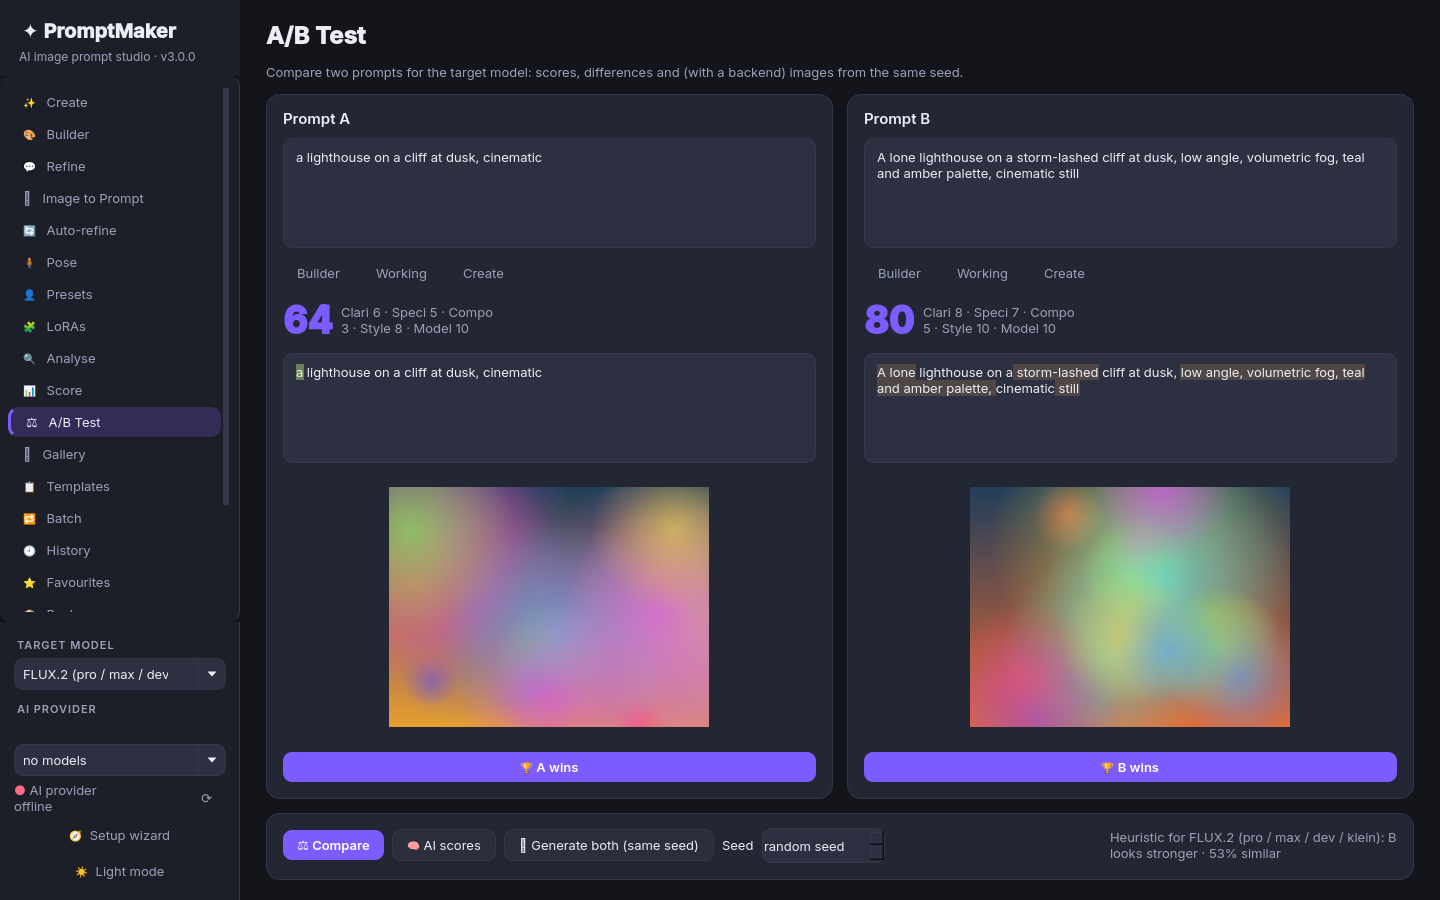
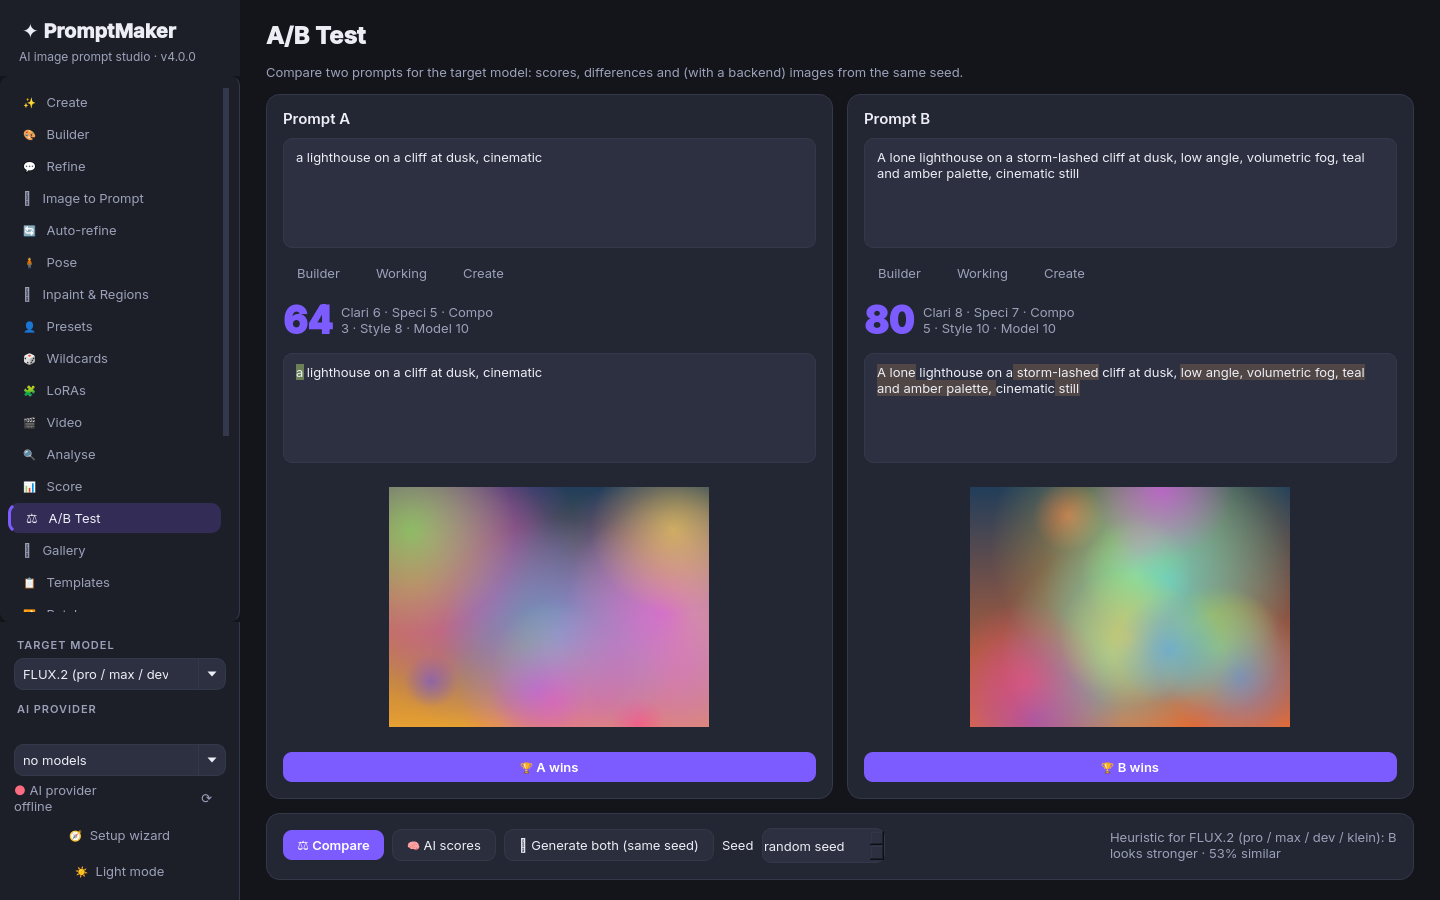
Release prep v4.0.0: version bump, changelog, README (features, inpaint/regions, wildcards, sync, troubleshooting), screenshots

Changed region(s): [[0.0, 0.4356, 0.1562, 0.6533], [0.0, 0.3111, 0.0938, 0.4044]]

diff --git a/tools/screenshots.py b/tools/screenshots.py
@@ -144,6 +144,43 @@ def v3_shots():
     w.pose_cn_model.setCurrentText("xinsir_openpose_sdxl"); g("pose")
 
 
+def v4_shots():
+    os.environ["PROMPTMAKER_NO_DIALOGS"] = "1"
+    w.profile_combo.setCurrentIndex(w.profile_combo.findData("illustrious"))
+    # wildcards
+    lib = w.wc_lib
+    lib.save("hair", ["silver hair", "pink twintails", "short black hair", "long blonde hair", "{light|dark} blue hair"])
+    lib.save("outfit", ["school uniform", "black kimono", "hoodie and jeans", "witch hat and cloak", "sailor dress"])
+    lib.save("places/outdoor", ["cherry blossom park", "rainy neon street", "seaside cliff at dusk", "snowy shrine"])
+    lib.save("places/indoor", ["cosy library", "train carriage", "cafe by the window"])
+    w.go("Wildcards"); w.wc_reload(); w.wc_prompt.setPlainText("1girl, __hair__, __outfit__, {smiling|serious|surprised}, {2::__places/outdoor__|__places/indoor__}")
+    w.wc_seed.setValue(2026); w.wc_n.setValue(8); w.wc_batch(); w.wc_list.setCurrentRow(0)
+    w.wc_desc.setText("fantasy locations"); g("wildcards")
+    # inpaint & regions
+    w.go("Inpaint & Regions"); im, data = art(77, 832, 1216); w.ip_canvas.set_image(data)
+    w.ip_canvas.mode = "brush"; w.ip_canvas.brush = 90
+    from PySide6.QtCore import QPointF
+    for a, b in (((300, 380), (520, 360)), ((520, 360), (560, 520)), ((330, 420), (500, 500))):
+        w.ip_canvas._stroke(QPointF(*a), QPointF(*b))
+    w.ip_canvas.add_region("1girl, silver hair, black kimono", (.05, .1, .45, .85))
+    w.ip_canvas.add_region("1boy, short black hair, school uniform", (.52, .1, .43, .85))
+    w.rg_refresh(); w.ip_prompt.setPlainText("a golden crown with small rubies")
+    w._rg_support_shown(""); g("inpaint")
+    # video
+    w.go("Video"); w.vd_model.setCurrentIndex(w.vd_model.findData("wan22"))
+    w.vd_idea.setPlainText("a fox in the snow at sunrise")
+    for k, val in (("subject", "a red fox with a thick winter coat"), ("action", "trots through fresh snow, breath steaming"),
+                   ("scene", "a quiet birch forest at sunrise"), ("lighting", "soft golden backlight, long shadows"),
+                   ("style", "cinematic, 35mm film, shallow depth of field")):
+        w.vd[k].setText(val)
+    w.vd_camera.setCurrentText("Tracking"); w.vd_motion.setCurrentText("Natural"); w.vd_shot.setCurrentText("Medium shot")
+    w.vd_build(); w.vd_name.setText("Winter fox"); w.vd_save(); g("video")
+    # library sync
+    w.go("Library sync"); w.sy_gist.setText("3f2a9c0d1e7b4a6c8d5e"); w.sy_status.setText("✅ Pushed to gist")
+    w.store.log_sync("export", "promptmaker-library.zip", "ok"); w.store.log_sync("push", "gist:3f2a9c0d1e7b4a6c8d5e", "ok")
+    w.sy_refresh(); g("sync")
+
+
 def go():
     demo_data()
     w.profile_combo.setCurrentIndex(w.profile_combo.findData("illustrious"))
@@ -183,6 +220,7 @@ def go():
     w._comm_loaded(community.load_index(idx)); w.comm_status.setText(f"{len(w.comm_items)} item(s)"); w.go("Community"); g("community")
     civitai_profile()
     v3_shots()
+    v4_shots()
     w.go("Model profiles"); app.processEvents(); g("profiles")
     w.go("Settings"); g("settings")
     w.start_tour(); app.processEvents(); g("tour"); w.tour.hide()

diff --git a/promptmaker/__init__.py b/promptmaker/__init__.py
@@ -1,1 +1,1 @@
-__version__ = "3.0.0"
+__version__ = "4.0.0"

diff --git a/README.md b/README.md
@@ -4,9 +4,9 @@
 
 **A local desktop studio for writing AI image prompts.** You can describe an idea in plain words, build a prompt from 800 presets, refine it in a chat with a local LLM, or score it. Each prompt is formatted for the image model you're targeting, such as FLUX.2, SDXL, Pony, Illustrious, Anima, MOSS-Image, Qwen-Image, Midjourney V7, GPT Image and more.
 
-Everything runs on your own computer by default. The AI features are optional and work with [Ollama](https://ollama.com), LM Studio, llama.cpp, KoboldCpp, vLLM or any OpenAI-compatible server, plus optional cloud providers. Version 3 adds a first-run setup wizard, an automatic generate → check → refine loop, a LoRA manager, reusable characters and styles, and a pose sketcher with ControlNet. It can also generate images through **ComfyUI** or **Forge / AUTOMATIC1111**, turn images back into prompts, compare prompts A/B, and import checkpoint-specific guidance from **Civitai**.
+Everything runs on your own computer by default. The AI features are optional and work with [Ollama](https://ollama.com), LM Studio, llama.cpp, KoboldCpp, vLLM or any OpenAI-compatible server, plus optional cloud providers. Version 4 adds wildcards and dynamic prompts, inpainting and regional prompts, library export/import with optional private GitHub gist sync, and prompt writing for video models (Wan, LTX-Video, HunyuanVideo). Version 3 added a first-run setup wizard, an automatic generate → check → refine loop, a LoRA manager, reusable characters and styles, and a pose sketcher with ControlNet. It can also generate images through **ComfyUI** or **Forge / AUTOMATIC1111**, turn images back into prompts, compare prompts A/B, and import checkpoint-specific guidance from **Civitai**.
 
-**Latest release:** [v3.0.0](https://github.com/Kisahime/promptmaker/releases/tag/v3.0.0) · [Changelog](CHANGELOG.md)
+**Latest release:** [v4.0.0](https://github.com/Kisahime/promptmaker/releases/tag/v4.0.0) · [Changelog](CHANGELOG.md)
 
 ![Create page](docs/screenshots/create.png)
 
@@ -33,6 +33,10 @@ Everything runs on your own computer by default. The AI features are optional an
 - **👤 Presets** *(3.0)*: save **characters** (name, appearance tags, outfit, optional LoRA and weight, reference image) and **styles** (tags plus extra negative). Tick several to combine them in any prompt, and Batch can keep them fixed on every variation so a character stays consistent.
 - **🧍 Pose** *(3.0)*: a canvas with draggable OpenPose-style skeletons (8 starter poses) and boxes for other subjects. It turns the sketch into composition tags (framing, pose, facing, positions) in the target model's style, exports an OpenPose PNG, and can generate with **ControlNet** via Forge's `alwayson_scripts` or by adding a ControlNet node to your ComfyUI workflow. Pick the ControlNet model from a dropdown filled from Forge; the page warns if it doesn't match your checkpoint (Anima needs an Anima ControlNet-LLLite model) and tells you whether the pose was actually applied.
 - **🗂 Checkpoint picker** *(3.0)*: choose the Forge/ComfyUI checkpoint in Settings, on the Pose page or on the Auto-refine page. All three are the same setting.
+- **🎲 Wildcards** *(4.0)*: write `__hair__` to pick a random line from `wildcards/hair.txt`, `{a|b|c}` to pick one option, `{2::a|b}` for weights, `{2$$a|b|c}` or `{1-3$$ and $$a|b|c}` to pick several. Folders (`__people/job__`), globs (`__places/*__`), YAML packs and nesting all work, using the same syntax as **sd-dynamic-prompts**. Results are seeded, so the same seed always gives the same prompt. Preview one expansion or a batch of N different variations, keep your ticked characters and styles fixed while everything else changes, and queue one image per variation. The page also creates, edits and deletes wildcard files, imports a folder or a Civitai zip pack (including zips inside zips), and has the local AI **write a new list** from a description such as "50 fantasy locations". Wildcards in prompts sent to Forge or ComfyUI are expanded with the image's seed, wherever the prompt comes from.
+- **🖌 Inpaint & Regions** *(4.0)*: open an image (or take the last generated one), paint a mask and send it to **img2img inpaint**, with denoise, mask blur, *whole picture / only masked* and padding. Or draw boxes that each get their own prompt (**regional prompting**). ComfyUI needs nothing extra (`ConditioningSetArea` + `ConditioningCombine`). Forge has no built-in regional prompting, so PromptMaker uses the free **Forge Couple** extension when it's installed. If it isn't, the page says which extension to install, and you can send everything as one prompt with position words instead. The page uses the same checkpoint picker as Settings, Pose and Auto-refine.
+- **🎬 Video** *(4.0)*: prompt writing for **Wan 2.2 / 2.1**, **LTX-Video** and **HunyuanVideo**. Fill in the subject, action and scene, and pick a camera move (14 presets: push in, orbit, tracking, FPV drone …), a motion preset, the shot size, lighting and style. The duration shows the frame count each model accepts (4n+1 or 8n+1 at its fps). **Build** writes the prompt offline in the structure that model prefers. **Write with AI** has your local LLM write it to the model's own prompting guide. You also get a word-count/camera check, the model's default negative prompt (where it has one), and saved video prompts. PromptMaker doesn't render video.
+- **☁ Library sync** *(4.0)*: export everything (history, favourites, templates, versions, characters, styles, video prompts, LoRA metadata, wildcards, model profiles and settings) as one `.zip` or `.json`, and import it with **merge** or **replace**. When the same name has different content you choose *keep mine*, *take theirs* or *keep both*. Optional **private GitHub gist** sync with your own token (kept in the OS keyring) can push, pull or sync, deciding by last-modified time and asking you on a conflict. **API keys and tokens are never exported.**
 - **🎨 App icon** *(3.0)*: PromptMaker has its own icon on the window, taskbar and desktop shortcut.
 - **🩹 Friendly errors** *(2.0)*:
   - Models a provider can't load (e.g. `llama3.2-vision` on Ollama 0.30+) get a plain explanation, a one-click switch to another installed model, and a copyable `ollama pull` command. Unsupported or failed models are marked in the model pickers.
@@ -41,6 +45,12 @@ Everything runs on your own computer by default. The AI features are optional an
 - A polished dark/light theme and a **Ctrl+K** quick bar from anywhere.
 
 ## Screenshots
+
+| Wildcards *(4.0)* | Inpaint & Regions *(4.0)* |
+|---|---|
+| ![Wildcards](docs/screenshots/wildcards.png) | ![Inpaint & Regions](docs/screenshots/inpaint.png) |
+| **Video prompts** *(4.0)* | **Library sync** *(4.0)* |
+| ![Video prompts](docs/screenshots/video.png) | ![Library sync](docs/screenshots/sync.png) |
 
 | Setup wizard *(3.0)* | Auto-refine *(3.0)* |
 |---|---|
@@ -120,6 +130,12 @@ PromptMaker doesn't include an image model. It sends prompts to a backend you al
 
 **ControlNet (Pose page).** On Forge/A1111 the OpenPose image is sent as a ControlNet unit in `alwayson_scripts` (Forge has ControlNet built in; on AUTOMATIC1111 install *sd-webui-controlnet*). The ⟳ button lists models from `/controlnet/model_list`. On ComfyUI the image is uploaded with `/upload/image`, and `LoadImage → ControlNetLoader → ControlNetApplyAdvanced` nodes are added in front of each KSampler in your workflow. Put an OpenPose ControlNet model (for SDXL, e.g. *xinsir openpose*) in ComfyUI's `models/controlnet` folder.
 
+**Inpaint (Inpaint & Regions page).** Forge/A1111: `/sdapi/v1/img2img` with `init_images`, `mask` (white = repaint), `denoising_strength`, `mask_blur`, `inpaint_full_res` (*Only masked*) and `inpaint_full_res_padding`. Nothing to install. ComfyUI: the picture is uploaded with the mask in its alpha channel, and `LoadImage → VAEEncode → GrowMask → SetLatentNoiseMask` replaces the empty latent in your workflow, with the KSampler's denoise set from the page.
+
+**Regional prompts.** ComfyUI: one `CLIPTextEncode → ConditioningSetArea` per box, combined with your main prompt by `ConditioningCombine`, which is all built in. Forge has no built-in regional prompting, so install **Forge Couple**: in Forge go to *Extensions → Install from URL* and enter `https://github.com/Haoming02/sd-forge-couple`, then restart. PromptMaker detects it through `/sdapi/v1/scripts` (**🔎 Check support**) and sends the boxes in its *Advanced* mode, with the main prompt as a full-image background whose strength you set as *Base weight*. Without it you get that message, and can choose **Send as one prompt instead** (for example `(a cat) on the left, (a dog) on the right`).
+
+**Wildcards when generating.** `__name__` and `{a|b}` in any prompt you generate are expanded with the image's seed before it's sent, so Forge and ComfyUI don't need the Dynamic Prompts extension. Turn this off on the Wildcards page if you'd rather let the extension do it. A lone `{tag}` without `|` is left alone.
+
 Set the backend, URL, workflow, checkpoint, steps and CFG in **Settings → Image generation**, then use the **🖼 Generate** buttons on Create, Builder, Image to Prompt, A/B Test and Gallery. Width and height come from the target model profile's aspect ratio. Images go to `data/gallery/` as PNG files, each with a `.json` sidecar holding the prompt, negative prompt, seed, profile and settings.
 
 ## Civitai checkpoint profiles
@@ -198,6 +214,10 @@ History, templates, favourites, versions and settings are stored in `data/prompt
 - **Portable mode** (the default) keeps everything in `data/` next to the app, so you can copy the whole folder anywhere.
 - Turn portable mode off in **Settings** to use `%APPDATA%\PromptMaker` on Windows (`~/.local/share/PromptMaker` or `~/Library/Application Support/PromptMaker` elsewhere). Your data is copied over the first time and the change takes effect after a restart. The choice is remembered by a `use_appdata.flag` file next to the app.
 
+Wildcard files live in `data/wildcards/` (`.txt`, one entry per line, `#` for comments; or `.yaml`). Subfolders become `__folder/name__`. You can also drop sd-dynamic-prompts packs straight in.
+
+**Library sync** (*☁ Library sync* page): **Export .zip** keeps wildcards as normal files, and **.json** is a single file. Machine-specific settings (folder paths, the gist ID, setup results) and anything that looks like a secret are left out, and API keys are never read at all, because they live in the keyring or `secrets.json`. For gist sync, create a token at <https://github.com/settings/tokens>: a classic token with the **gist** scope, or a fine-grained one with *Gists: read & write*. Paste it and press **Save token**; it's stored like your API keys. The first push creates a **private** (secret) gist. On another computer, paste the same token and the gist ID, then press **Sync**. Sync compares last-modified times with the last successful sync. If only one side changed, it pushes or pulls. If both did, you choose **Keep this computer**, **Keep the gist** or **Merge both**.
+
 The `data/` folder is git-ignored.
 
 ## Updates & privacy
@@ -238,6 +258,14 @@ The model is NSFW or gated, or its images hide their generation data from anonym
 **Community page shows an error.** Check **Settings → Community gallery → Index URL** (the default is `community/index.json` on `main`). Downloads whose SHA-256 doesn't match are refused on purpose.
 
 **API keys saved "in plain text".** No OS keyring was found. Run `install.bat` / `install.sh` again to install `keyring`, or keep `data/secrets.json` private.
+
+**Regions: "Regional prompts on Forge need the free Forge Couple extension".** Forge (including Forge Neo) has no regional prompting built in. Install *sd-forge-couple* (see [Image generation](#image-generation-optional)), restart Forge and press **🔎 Check support**. If Forge Couple reports *"Image must contain weights on all pixels"*, raise **Base weight** above 0. Forge Couple and sd-dynamic-prompts can clash, but PromptMaker expands wildcards itself, so you can disable Dynamic Prompts.
+
+**Inpaint changes the whole picture / nothing changes.** Lower **Denoise** (0.4–0.6 keeps more of the original) and use *Only masked* for small areas. For big changes, raise it to 0.8–1.0 and set *Masked content* to *latent noise*. On ComfyUI, inpainting works best with an inpaint checkpoint, though normal ones work at lower denoise.
+
+**Wildcard shows up as `__name__` in the result.** There's no file with that name. The Wildcards page lists unknown names under **Try it**. Names are case-insensitive and folders use `/` (`__people/job__`).
+
+**Gist sync: 401 / 403 / 404.** 401 means the token is wrong or expired. 403 means it lacks the *gist* scope (or *Gists: read & write* on a fine-grained token). 404 means the gist ID is wrong, or the token belongs to another account. Clear the Gist box to create a new one on the next push.
 
 **Nothing happens on Linux, or Qt errors.** Install the Qt runtime libraries (`libegl1 libgl1 libxkbcommon0 libfontconfig1 libdbus-1-3` on Debian/Ubuntu).
 

diff --git a/CHANGELOG.md b/CHANGELOG.md
@@ -2,6 +2,22 @@
 
 All notable changes to this project are documented here. The format follows [Keep a Changelog](https://keepachangelog.com/) and the project uses [Semantic Versioning](https://semver.org/).
 
+## [4.0.0] – 2026-10-29
+### Added
+- **Wildcards** page (`promptmaker/wildcards.py`): sd-dynamic-prompts-compatible syntax. `__name__` (`.txt` one entry per line, sub-folders, globs such as `__places/*__`, and `.yaml` packs flattened to `__file/key__` and `__key__`), `{a|b|c}`, weights `{2::a|b}`, multi-pick `{2$$a|b|c}`, ranges and custom separators `{1-3$$ and $$a|b}`, and nested and recursive expansion with a loop guard. Seeded with `random.Random(seed)`, so results are reproducible. Preview, a batch of N unique variations, unknown-wildcard warnings, "Keep ticked characters & styles", and one image queued per variation. The manager creates, edits and deletes files, and imports a folder, a single file or a Civitai `.zip` (handling a `wildcards/` prefix, zips inside zips, and `__MACOSX` junk) with keep / overwrite / keep-both. **✨ Generate** has Ollama (or any provider) write a list from a description.
+- Wildcards are expanded in `make_job()` with the image seed, so every page (Generate, Batch, Pose, Auto-refine, Inpaint …) supports them. This can be switched off. A lone `{tag}` is never touched.
+- **Inpaint & Regions** page (`promptmaker/regions.py`, `promptmaker/inpaintcanvas.py`): a mask brush, eraser, invert, clear, "mask the selected region", open an image or take the last generated one, or a blank canvas at the profile size. Forge/A1111 inpaint goes through `/sdapi/v1/img2img` (denoise, mask blur, whole picture / only masked, padding, masked content). ComfyUI inpaint uses `LoadImage` (with the mask as alpha) → `VAEEncode` → `GrowMask` → `SetLatentNoiseMask`.
+- **Regional prompts:** draggable, resizable boxes, each with its own prompt and weight. ComfyUI uses `ConditioningSetArea` + `ConditioningCombine` in front of every KSampler. Forge uses **Forge Couple** (Advanced mode, detected via `/sdapi/v1/scripts`), with the main prompt as a full-image background line. Without it, a message names the extension and offers "Send as one prompt instead" with position words. The page has the shared checkpoint picker.
+- **Video** page (`promptmaker/video.py`): profiles for Wan 2.2, Wan 2.1, LTX-Video and HunyuanVideo (fps, valid frame counts 4n+1 / 8n+1, sizes, negative support, word range, prompting guide), 14 camera moves, 10 motion presets and 12 shot sizes. An offline structured builder in each model's preferred order, an AI writer, length and camera checks, default negatives, "Use ticked character", and saved video prompts. Prompt writing only.
+- **Library sync** page (`promptmaker/sync.py`): export/import of history, favourites, templates, versions, characters, styles, video prompts, LoRA metadata, wildcards, model profiles and settings as `.zip` or `.json`. Merge or replace; same-name conflicts can keep mine, take theirs or keep both; content duplicates are skipped. Optional private GitHub gist push / pull / sync with last-modified conflict detection and a Keep this computer / Keep the gist / Merge both choice. The token is stored in the KeyStore. API keys are never exported: the KeyStore isn't read, and secret-looking settings names and values (`sk-…`, `ghp_…` …) are removed.
+- `imagegen`: `Job.inpaint`, `Job.regions`, `A1111.regional_support()` and `ComfyUI.regional_support()`; Forge switches to `/sdapi/v1/img2img` for inpaint jobs.
+- 32 new tests (`tests/test_v4.py`) using local mock servers for Forge, ComfyUI, the GitHub gist API and Ollama.
+
+### Changed
+- Database schema version 4: a migration adds the `video_prompts` and `sync_log` tables. v2 and v3 databases upgrade automatically.
+- The tour covers the four new pages. There are new screenshots (`wildcards`, `inpaint`, `video`, `sync`), and the README has sections on inpaint, regions, wildcards, sync, and troubleshooting.
+- Two v3 tests no longer pin the version number or schema version exactly.
+
 ## [3.0.0] – 2026-10-29
 ### Added
 - **Setup wizard** (`promptmaker/firstrun.py`): opens on first launch, and from the sidebar (🧭 Setup wizard) or Settings. Checks whether Ollama is installed and running, its version and models, and pulls `llama3.2` and `qwen2.5vl` through `/api/pull` with a progress bar and Stop. Detects Forge/A1111 (`/sdapi/v1`, with the `--api` hint) and ComfyUI on their default ports, saves the results to settings, and picks an image backend if none is set.
